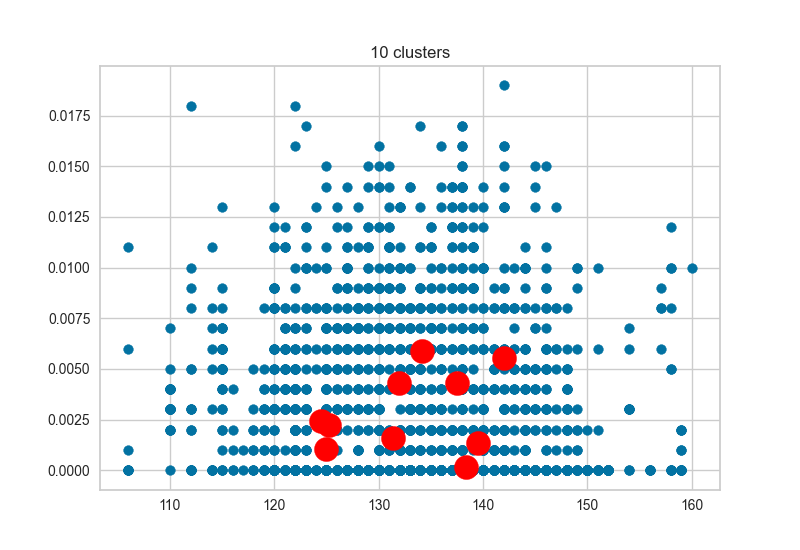
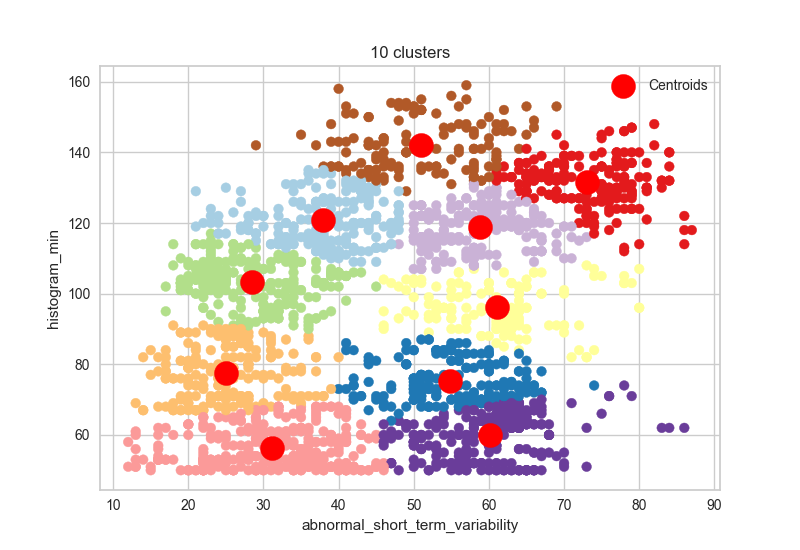
Fix clustering code to choose appropriate features and display color

diff --git a/final.py b/final.py
@@ -197,15 +197,22 @@ for model in models:
     viz.show()
 
 # Task 6 K Means clustering
+m = 7
+n = 12
 for k in [5, 10, 15]:
+    cluster_data = X.iloc[:, [m,n]]
     kmeans = KMeans(n_clusters=k, init='k-means++', max_iter=300, random_state=0)
-    pred_y = kmeans.fit_predict(X)
+    kmeans.fit(cluster_data)
+    pred_y = kmeans.fit_predict(cluster_data)
 
     # plot original data
-    plt.scatter(X.iloc[:, 0], X.iloc[:, 1])
+    plt.scatter(cluster_data.iloc[:,0], cluster_data.iloc[:,1], c=pred_y, cmap=plt.cm.Paired)
     # plot clusters
-    plt.scatter(kmeans.cluster_centers_[:, 0], kmeans.cluster_centers_[:, 1], s=300, c='red')
+    plt.scatter(kmeans.cluster_centers_[:, 0], kmeans.cluster_centers_[:, 1], s=300, c='red', label='Centroids')
 
     plt.title(str(k) + " clusters")
-    #plt.savefig(str(k) + 'kmeans')
+    plt.xlabel(X.columns[m])
+    plt.ylabel(X.columns[n])
+    plt.legend()
+    plt.savefig(str(k) + 'kmeans')
     plt.show()
